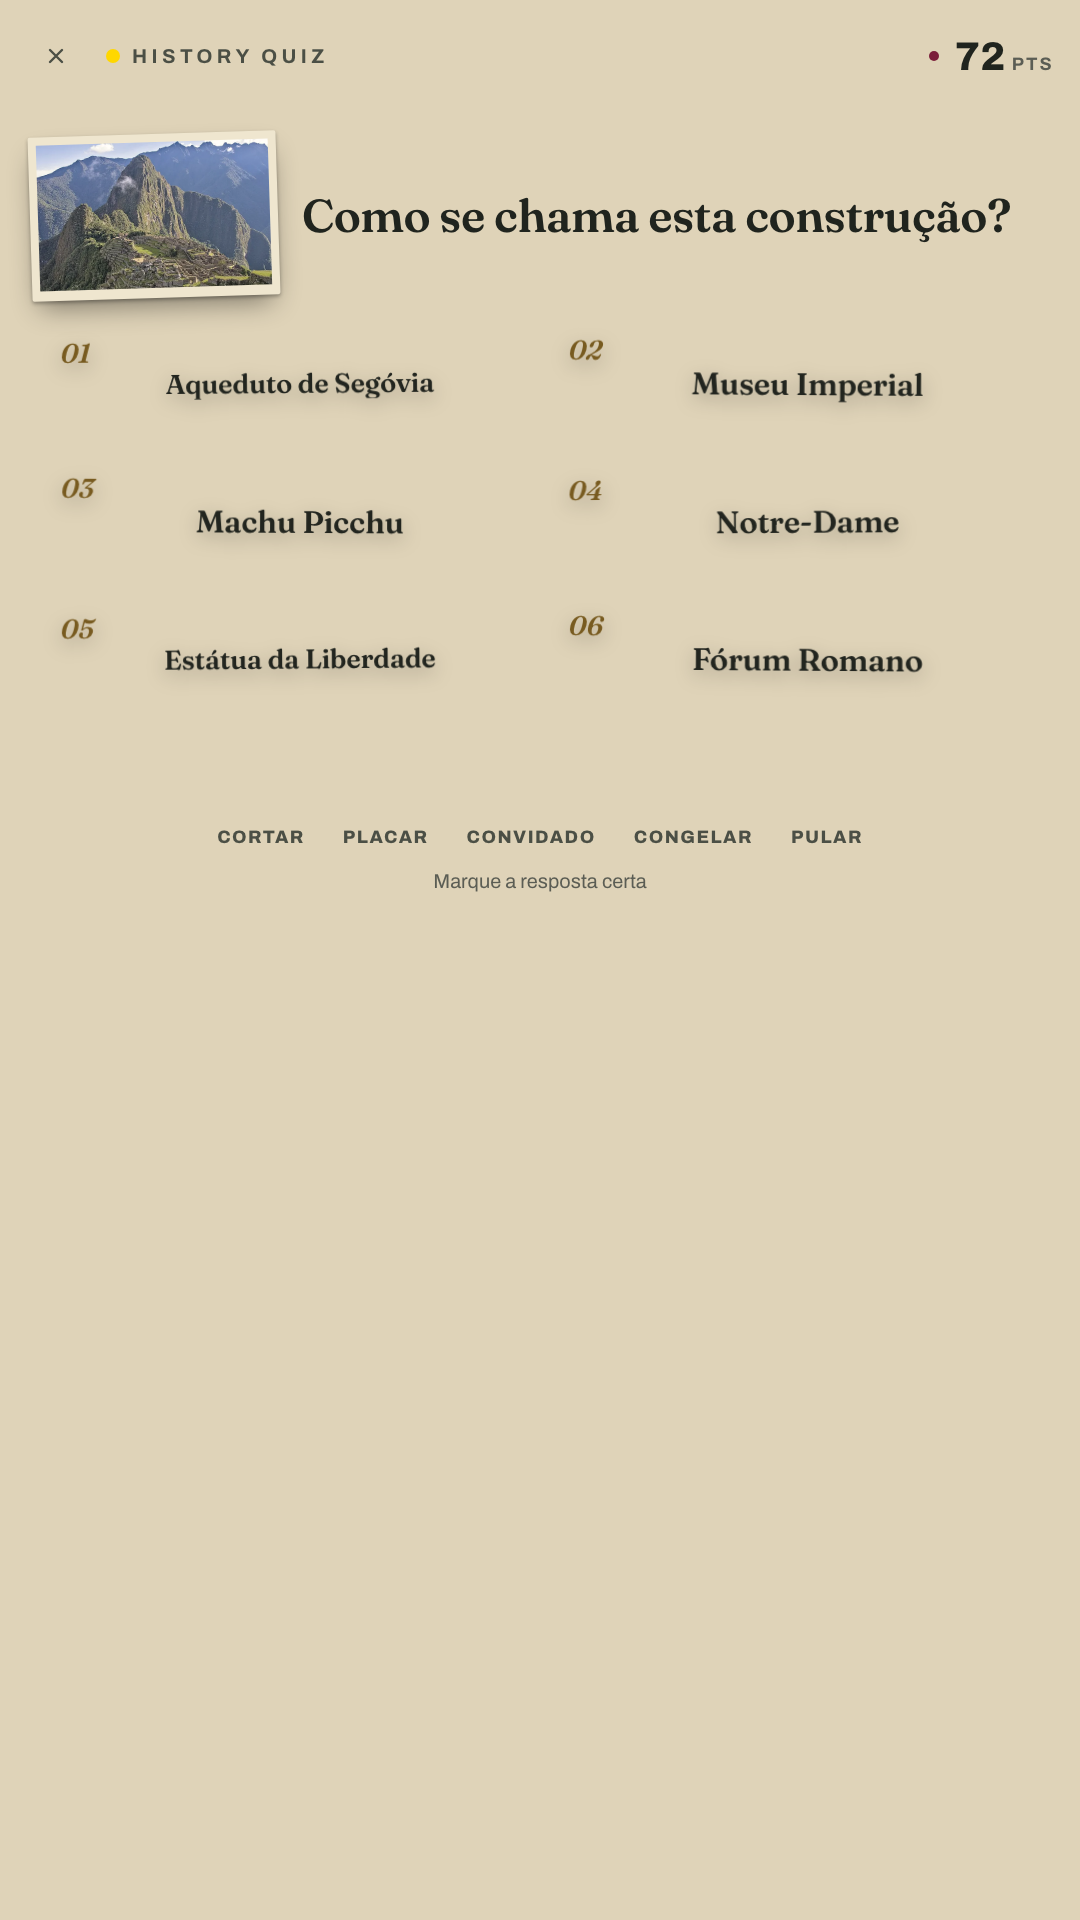
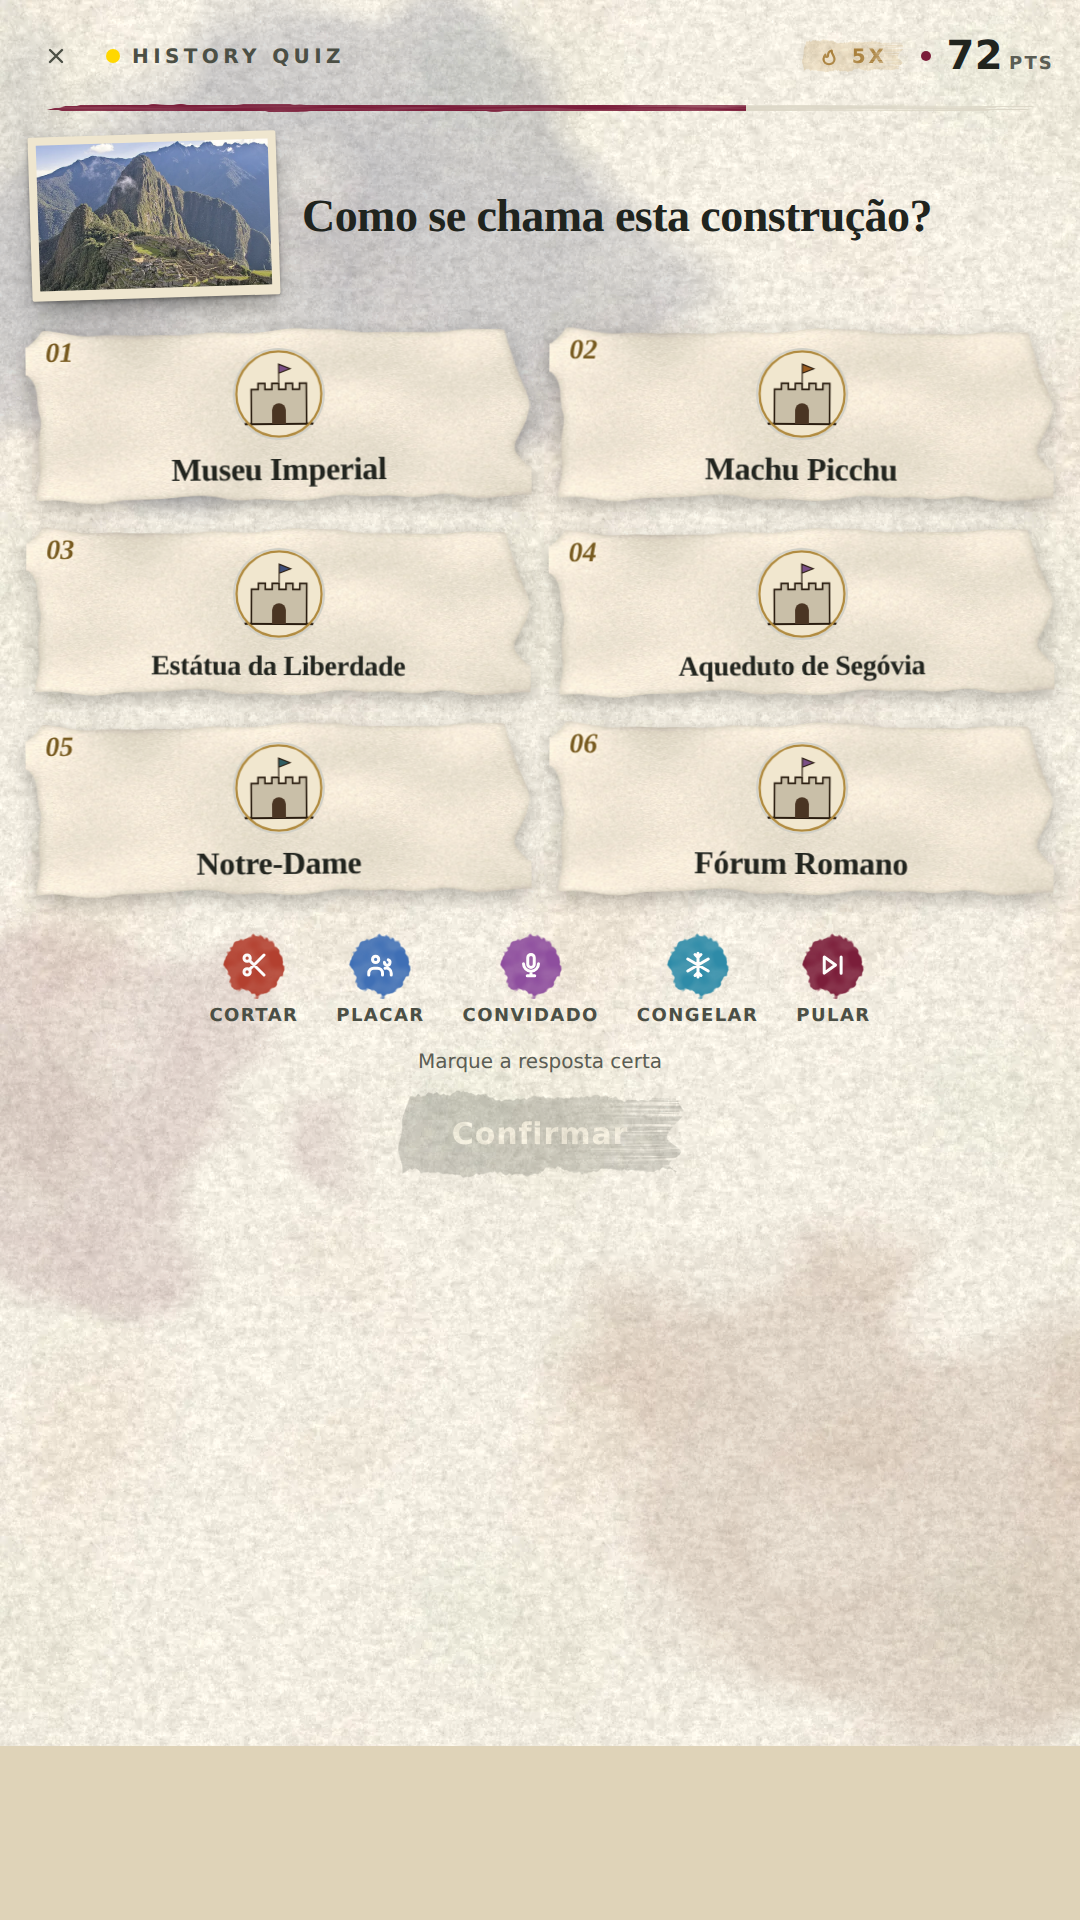
Store screenshots retaken with the finished UI, plus a battle and a quote
The six phone screenshots were taken before the atelier textures shipped, so
they showed the cover without its button and boards without their pictures.
Retaken (animations off, so nothing is caught mid-fade), and two more show
the new formats: Waterloo's battle strip and Caesar's sentence in stone.
store_assets.py runs headless Chromium with --no-sandbox under CI=1.

Claude-Session: https://claude.ai/code/session_01VRnirvspfJkgye8PMHK31j

diff --git a/tools/history/store_assets.py b/tools/history/store_assets.py
@@ -6,6 +6,7 @@
 import io, os, subprocess, sys
 ROOT = os.path.abspath(os.path.join(os.path.dirname(__file__), "..", ".."))
 CHROME = os.environ.get("CHROME", "/Applications/Google Chrome.app/Contents/MacOS/Google Chrome")
+EXTRA = ["--no-sandbox"] if os.environ.get("CI") else []
 OUT = os.path.join(ROOT, "store-assets")
 os.makedirs(OUT, exist_ok=True)
 
@@ -21,6 +22,8 @@ STATES = {
  "shot-03-monumento": Q("monumentos", "q.stad==='machu_picchu' && q.type==='txt'"),
  "shot-04-album": SEED + " albCtry='BRA'; albPage=0; sc='album'; go();",
  "shot-05-linha": ("diffKey='dificil'; cat=buildGame('dificil'); var q=CATS.find(function(c){return c.id==='linha_do_tempo'}).qs[3]; cat.qs=[q]; qi=0; sel.clear(); pts=72; streak=5; runLog=[3,3,3,3,3]; sc='quiz'; tMax=50; tLeft=36; disp=getDisp(q); go();"),
+ "shot-07-batalha": Q("batalhas", "q.battle && q.battle.lbl.indexOf('Waterloo')===0"),
+ "shot-08-citacao": Q("citacoes", "q.quote && q.quote.q.indexOf('Vim, vi')===0"),
  "shot-06-milhao": ("isMil=true; rung=10; banked=5000; diffKey='moderado'; var g=buildMilhao(); cat=g; qi=10; sel.clear(); pts=480; streak=4; runLog=[3,3,3,3,3,3,3,3,3,3]; sc='quiz'; tMax=30; tLeft=22; disp=getDisp(cat.qs[qi]); go();"),
 }
 
@@ -28,13 +31,14 @@ def shot(name, js, w=500, h=900, scale=2, light=True):
     src = io.open(os.path.join(ROOT, "index.html"), encoding="utf-8").read()
     if light:
         src = src.replace('<html lang="pt-BR">', '<html lang="pt-BR" data-theme="light">', 1)
-    tail = ("<style>.b,.b *,.alb-slot,.alb-slot *{animation:none!important;opacity:1!important}</style>"
+    tail = ("<style>.b,.b *,.alb-slot,.alb-slot *{animation:none!important;opacity:1!important}"
+            "*,*::before,*::after{animation-duration:0s!important;animation-delay:0s!important;transition:none!important}</style>"
             "<script>window.addEventListener('load',function(){setTimeout(function(){%s},800);});</script>") % js
     tmp = os.path.join(ROOT, "_store_%s.html" % name)
     io.open(tmp, "w", encoding="utf-8").write(src.replace("</body>", tail + "</body>"))
     out = os.path.join(OUT, name + ".png")
     try:
-        subprocess.run([CHROME, "--headless", "--disable-gpu", "--hide-scrollbars", "--allow-file-access-from-files",
+        subprocess.run([CHROME] + EXTRA + ["--headless", "--disable-gpu", "--hide-scrollbars", "--allow-file-access-from-files",
                         "--window-size=%d,%d" % (w, h), "--force-device-scale-factor=%d" % scale,
                         "--virtual-time-budget=6000", "--screenshot=" + out, "file://" + tmp],
                        capture_output=True, timeout=120)
@@ -65,7 +69,7 @@ def feature():
     io.open(tmp, "w", encoding="utf-8").write(html)
     out = os.path.join(OUT, "feature-graphic.png")
     try:
-        subprocess.run([CHROME, "--headless", "--disable-gpu", "--hide-scrollbars", "--allow-file-access-from-files",
+        subprocess.run([CHROME] + EXTRA + ["--headless", "--disable-gpu", "--hide-scrollbars", "--allow-file-access-from-files",
                         "--window-size=1024,500", "--virtual-time-budget=6000", "--screenshot=" + out, "file://" + tmp],
                        capture_output=True, timeout=120)
     finally:
